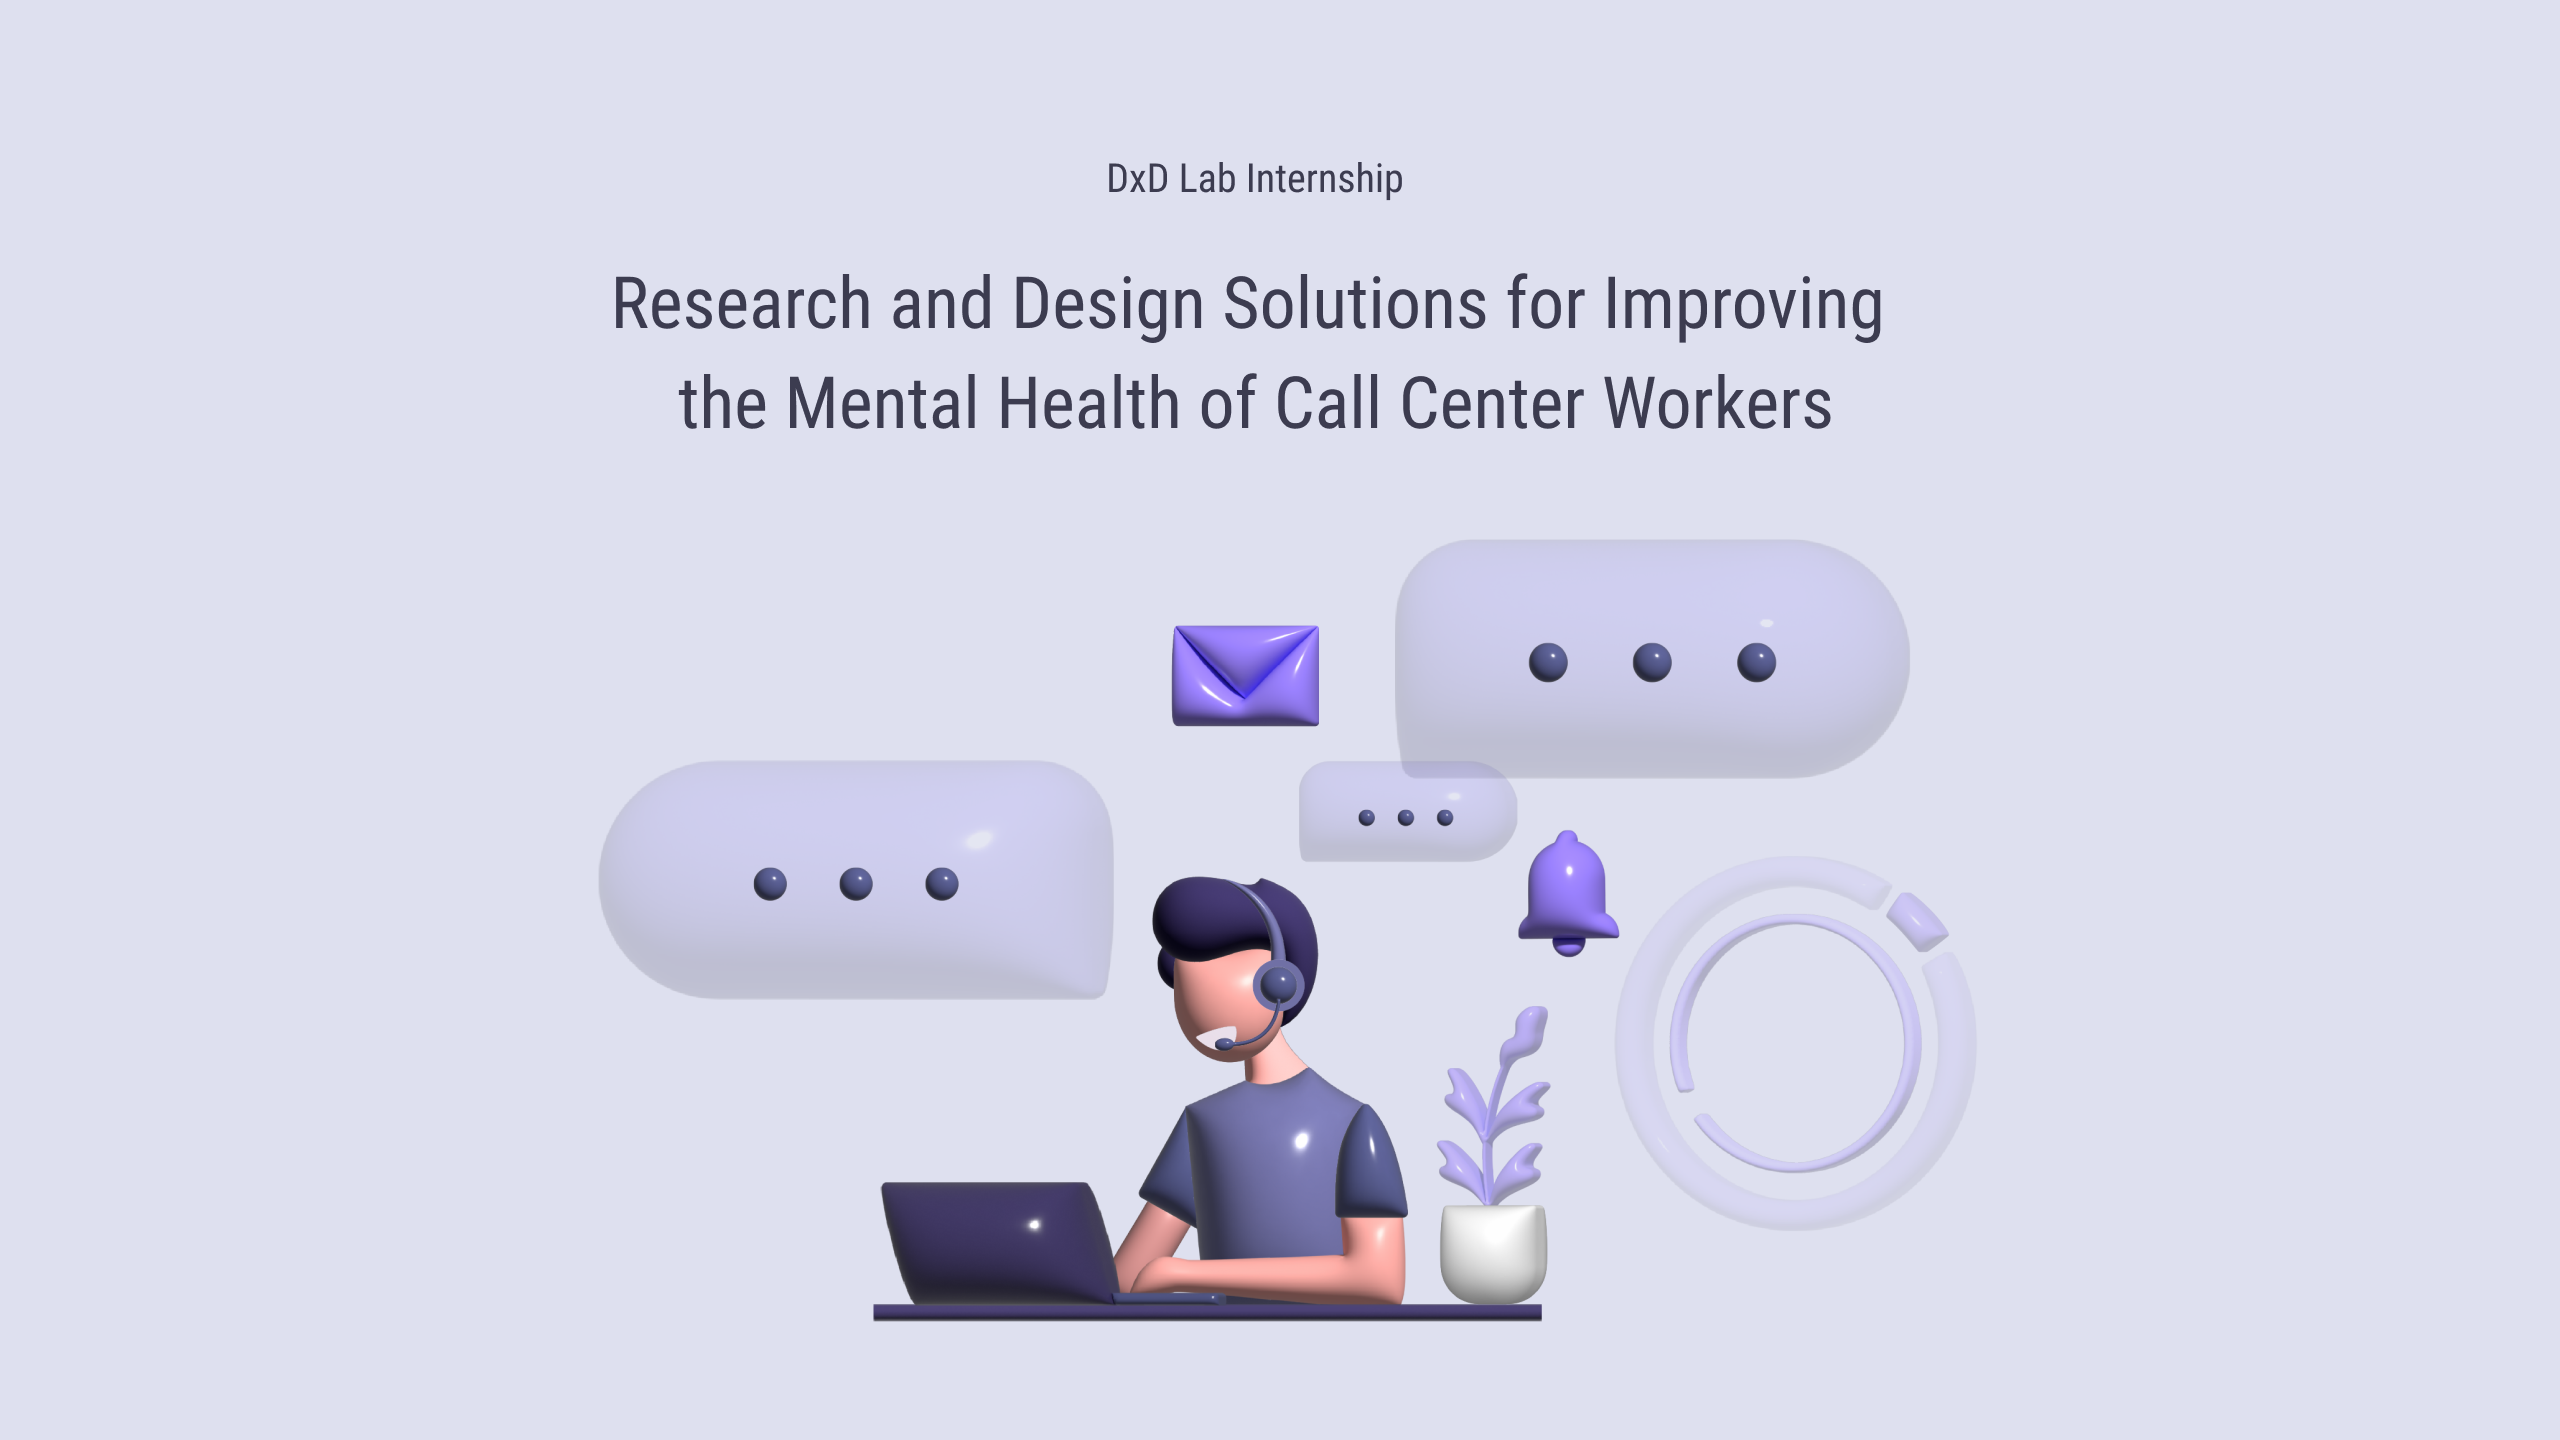
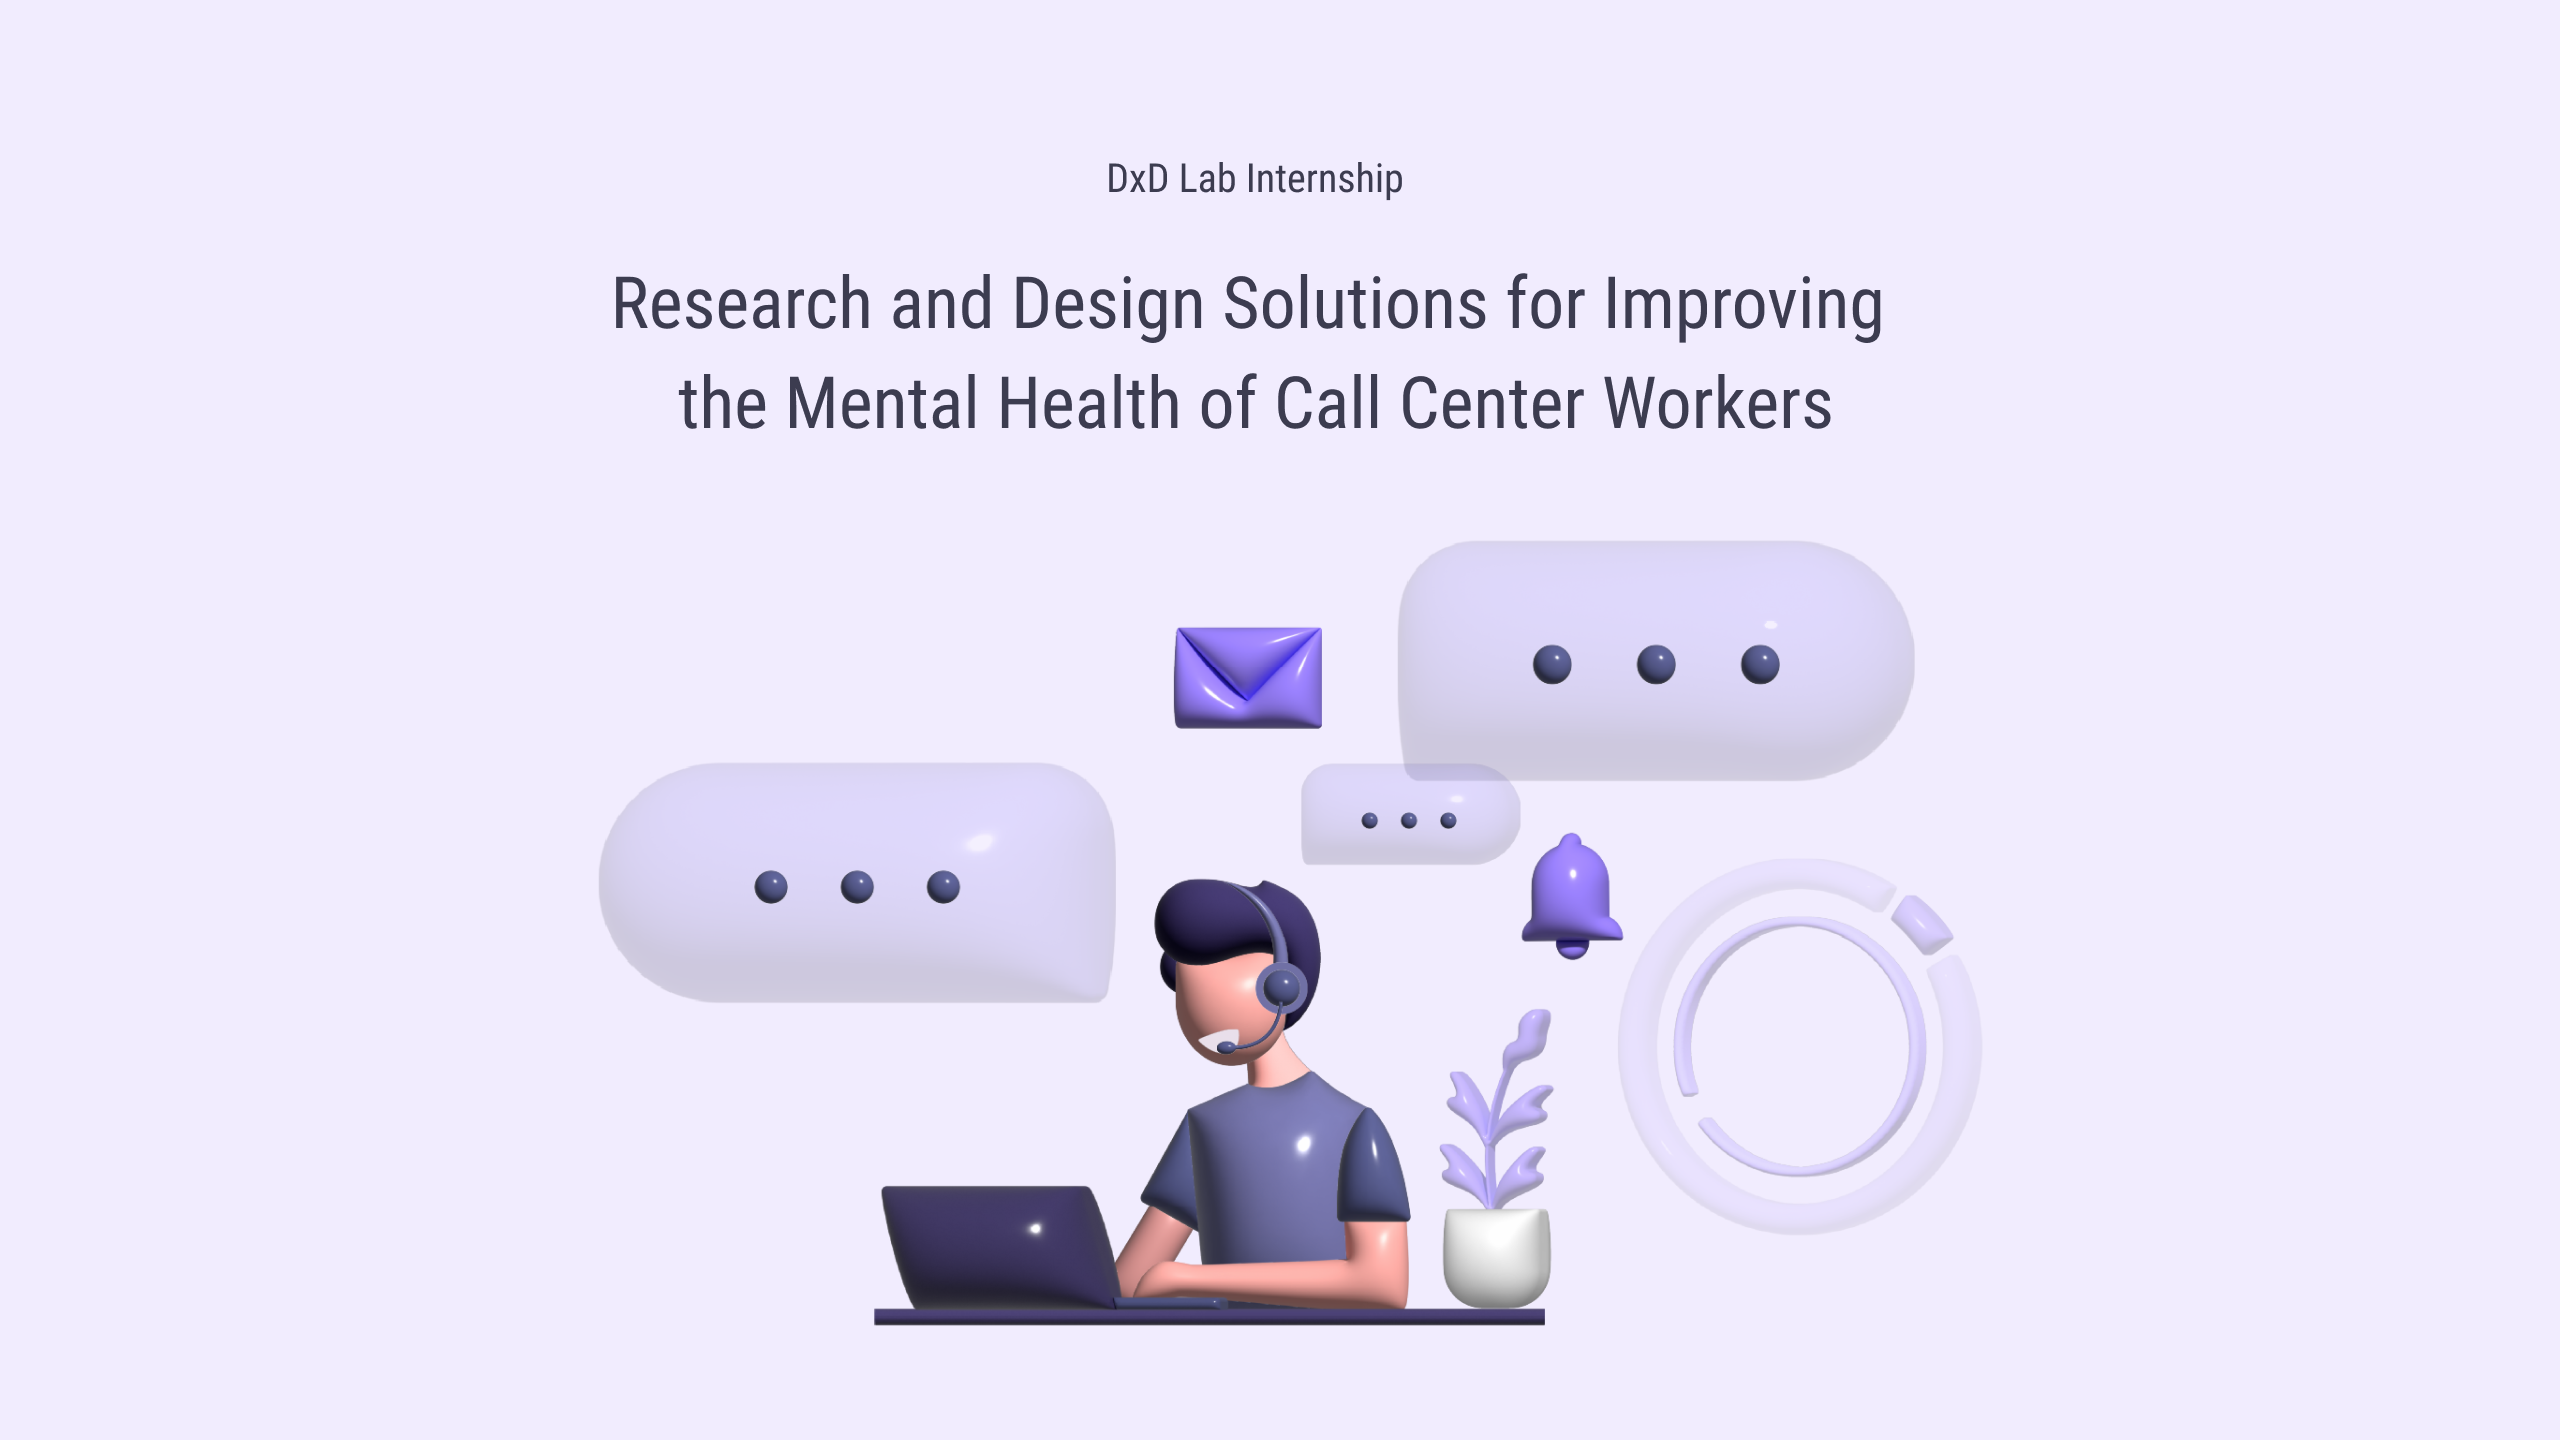
dxd image

diff --git a/index.html b/index.html
@@ -83,7 +83,7 @@
 
         <div class="main-content">
             <a href="dxd.html" class="work-link">
-                <div class="row" id="left-box" style="background-color: #DEE0EF">
+                <div class="row" id="left-box" style="background-color: #F1ECFE">
                         <div class="col-md-5 px-0 my-auto">
                             <div class="title-box">
                                 <h1 class="home-title">DxD Lab Internship</h1>
